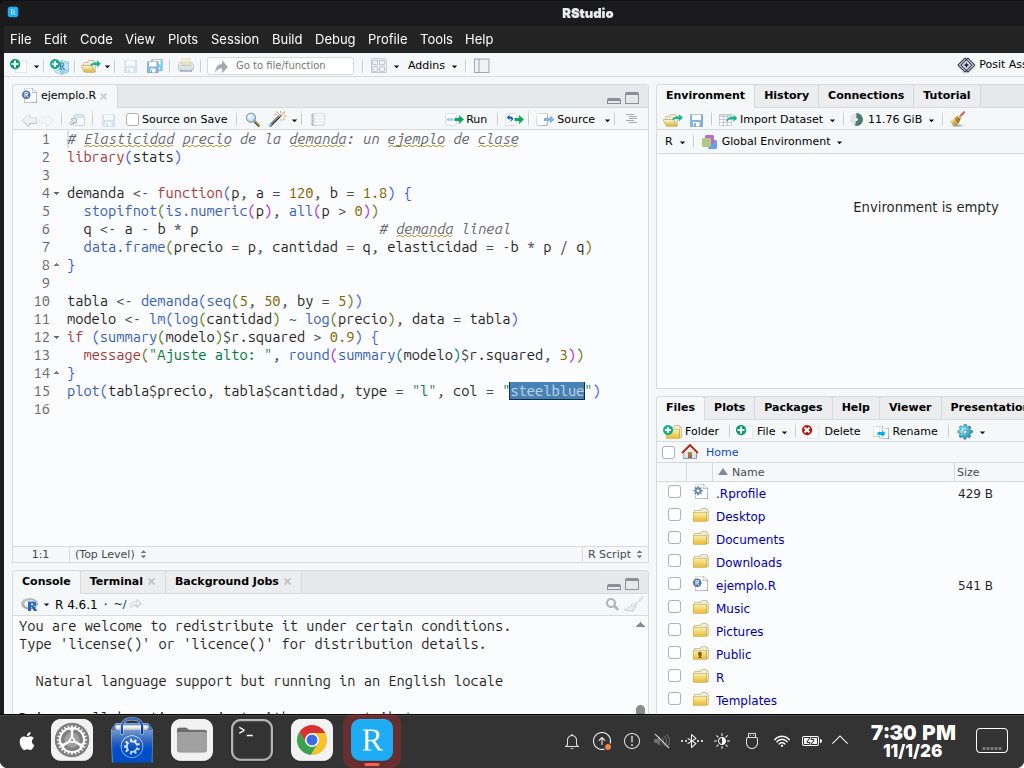
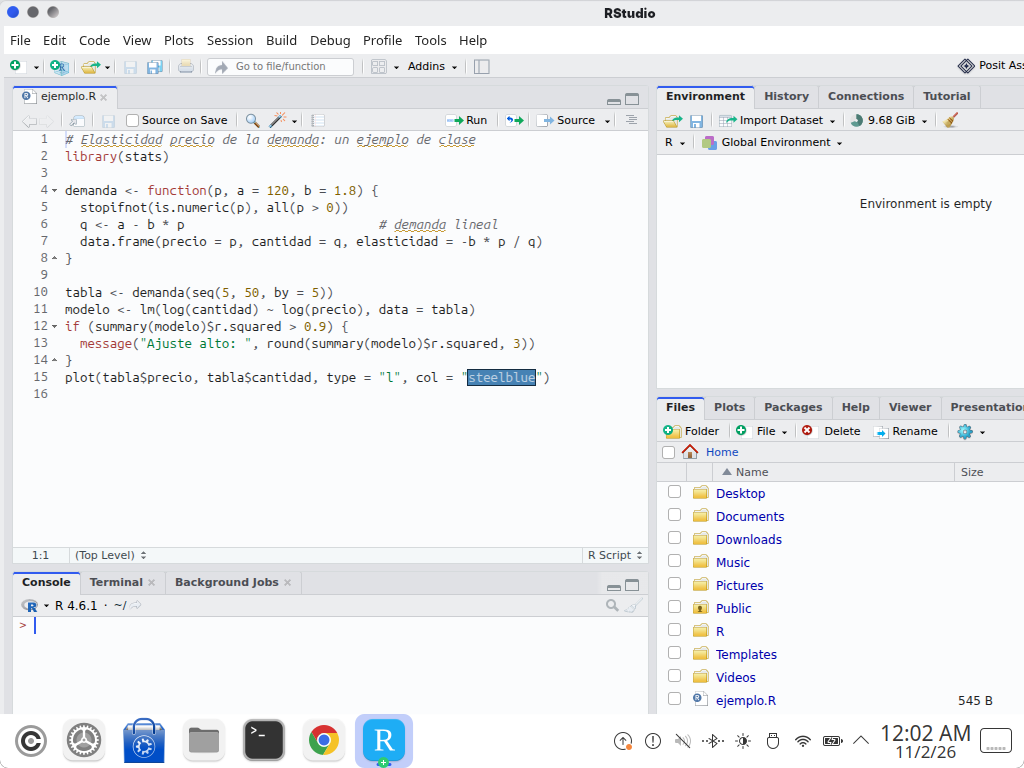
RStudio: el tema pinta también la ventana (barras, pestañas, divisores) (decisiones 5.44)
El menú «RStudio theme» (Modern, Sky) es fijo y no admite temas propios; la ventana quedaba con
sus grises, o con el gris azulado de RStudio en oscuro. RStudio carga el .rstheme en toda la
página, así que ventana() pinta las clases estables (rstheme_*, gwt-*) con los tokens: barra de
pestañas y divisores en fondo.ventana-alterno, barras y pestaña elegida en fondo.ventana, con la
raya del acento. Comprobado en la sesión de prueba en las dos variantes; capturas nuevas.

diff --git a/complementos/rstudio/construir.py b/complementos/rstudio/construir.py
@@ -3,12 +3,13 @@ registra desde `~/.config/rstudio/themes/` (o con `rstudioapi::addTheme`), y el 
 `fondo-variante` cambia `editor_theme` al pasar de una variante a otra.
 
 Formato (comprobado el 2026-11-01 en los 34 temas de RStudio 2026.05.1, `resources/app/resources/themes/`): dos
-comentarios de cabecera, `rs-theme-name` y `rs-theme-is-dark` (TRUE o FALSE; con TRUE RStudio pone oscura la interfaz
-entera: paneles, pestañas, barras y menús se derivan del fondo del editor), y reglas CSS sobre las clases de Ace
+comentarios de cabecera, `rs-theme-name` y `rs-theme-is-dark` (TRUE o FALSE; con TRUE RStudio pone oscuros los menús y
+su propio gris oscuro en la ventana), y reglas CSS sobre las clases de Ace
 (`.ace_keyword`, `.ace_string`…), las de RStudio (`.ace_foreign_line` para los bloques de código de R Markdown,
 `.ace_console_error`, `.ace_paren_color_0..6` de los paréntesis de colores, las guías de sangría de colores) y las de la
 consola y la terminal: `.terminal` y `.xtermColor0..255` / `.xtermBgColor0..255`, con las que RStudio pinta los
-colores ANSI de la consola de R y de la terminal integrada.
+colores ANSI de la consola de R y de la terminal integrada. RStudio carga el tema en toda la página, así que también pinta
+la ventana (`ventana()`, decisiones 5.44).
 
 La sintaxis sale de la misma tabla que los demás editores (`editores.sintaxis`); la consola y la terminal, de los
 dieciséis colores de Konsole (`konsole.ansi`, decisiones 4.30). Los colores 16 a 255 de xterm (el cubo 6×6×6 y la
@@ -37,6 +38,41 @@ def xterm256() -> dict[int, str]:
          for r in range(6) for g in range(6) for b in range(6)}
     c.update({232 + i: "#%02x%02x%02x" % ((8 + 10 * i,) * 3) for i in range(24)})
     return c
+
+
+def ventana(s: dict[str, str]) -> list[tuple[str, dict[str, str]]]:
+    """La ventana de RStudio (barras, pestañas, divisores), que sin esto queda con los grises de su estilo «Modern» o
+    «Sky». Ese menú de Global Options → Appearance → «RStudio theme» es fijo (no admite temas propios): lo que un
+    `.rstheme` puede pintar son las clases que RStudio deja estables para eso (`rstheme_*`) y las de GWT (`gwt-*`); las
+    demás cambian de nombre en cada versión. Con `!important`, porque RStudio pinta las mismas clases con más
+    especificidad según su estilo y la variante (`.rstudio-themes-flat.rstudio-themes-dark-grey …`)."""
+    def imp(props: dict[str, str]) -> dict[str, str]:
+        return {p: f"{v} !important" for p, v in props.items()}
+    borde = f"1px solid {s['borde.separador']}"
+    return [(sel, imp(props)) for sel, props in [
+        ("#rstudio_container, .rstudio-themes-flat .gwt-SplitLayoutPanel-HDragger,\n"
+         ".rstudio-themes-flat .gwt-SplitLayoutPanel-VDragger", {"background-color": s["fondo.ventana-alterno"]}),
+        (".rstudio-themes-flat .gwt-SplitLayoutPanel-VDragger", {"border-color": s["borde.separador"]}),
+        # pestañas de los paneles: la barra y las no elegidas en el fondo alterno; la elegida, del color de su barra de
+        # herramientas y con una raya del acento, como las pestañas de Plasma
+        (".rstudio-themes-flat .gwt-TabLayoutPanelTabs", {"background-color": s["fondo.ventana-alterno"], "border-bottom": borde}),
+        (".rstudio-themes-flat .gwt-TabLayoutPanelTab, .rstudio-themes-flat .gwt-TabLayoutPanelTab .rstheme_tabLayoutCenter",
+         {"background-color": s["fondo.ventana-alterno"], "color": s["texto.secundario"], "border-color": s["borde.separador"]}),
+        (".rstudio-themes-flat .gwt-TabLayoutPanelTab .gwt-Label", {"color": s["texto.secundario"]}),
+        (".rstudio-themes-flat .gwt-TabLayoutPanelTab-selected .rstheme_tabLayoutCenter",
+         {"background-color": s["fondo.ventana"], "box-shadow": f"inset 0 2px 0 {s['acento.base']}"}),
+        (".rstudio-themes-flat .gwt-TabLayoutPanelTab-selected .gwt-Label", {"color": s["texto.normal"]}),
+        # barras de herramientas y cabeceras de las tablas
+        (".rstudio-themes-flat .rstheme_toolbarWrapper, .rstudio-themes-flat .rstheme_secondaryToolbar,\n"
+         ".rstudio-themes-flat .gwt-TabLayoutPanelContent, .rstudio-themes-flat .gwt-TabLayoutPanel-Workbench",
+         {"background-color": s["fondo.ventana"], "border-color": s["borde.separador"]}),
+        (".rstudio-themes-flat .dataGridHeader", {"background-color": s["fondo.ventana"], "color": s["texto.secundario"],
+                                                  "border-color": s["borde.separador"]}),
+        (".rstudio-themes-flat .rstheme_minimizedWindowObject", {"background-color": s["fondo.ventana"], "border-color": s["borde.separador"]}),
+        # campos de búsqueda de las barras («Go to file/function», filtros de los paneles)
+        (".rstudio-themes-flat .rstheme_toolbarWrapper .search", {"background-color": s["fondo.vista"], "color": s["texto.normal"],
+                                                                  "border-color": s["borde.separador"]}),
+    ]]
 
 
 def reglas(tokens: dict, variante: str) -> list[tuple[str, dict[str, str]]]:
@@ -119,6 +155,7 @@ def reglas(tokens: dict, variante: str) -> list[tuple[str, dict[str, str]]]:
                f"{prefijo}.ace_editor.ace_autocomplete .ace_marker-layer .ace_line-hover",
                {"background": s["seleccion.fondo"] + "44", "border": "none"}),
               (f"{prefijo}.ace_editor.ace_autocomplete .ace_completion-highlight", {"color": s["acento.texto"]})]
+    r += ventana(s)
     # paréntesis y guías de sangría de colores: siete ANSI de Konsole
     for i, c in enumerate(ARCOIRIS):
         r.append((f".ace_paren_color_{i}, .editor_dark .ace_paren_color_{i}", {"color": k[c]}))

diff --git a/pruebas/test_proyecto.py b/pruebas/test_proyecto.py
@@ -1595,6 +1595,18 @@ def test_rstudio_temas():
             assert reglas[f".xtermBgColor{i}"]["background-color"] == k[f"color{i}"]
         assert reglas[".xtermColor196"]["color"] == "#ff0000 !important" and reglas[".xtermColor244"]["color"] == "#808080 !important"
         assert _contraste(e["texto"], e["fondo"]) >= 4.5
+        # la ventana (barras, pestañas): solo clases estables de RStudio (`rstheme_*`) y de GWT, nunca las ofuscadas
+        # (cambian en cada versión), y la pestaña elegida con la raya del acento y texto legible
+        ventana = {sel: p for sel, p in reglas.items() if ".rstudio-themes-flat" in sel or sel.startswith("#rstudio_container")}
+        assert ventana and not any(re.search(r"\.GBQ|\.[A-Z0-9]{8,}\b", sel) for sel in ventana)
+        assert all(x.endswith("!important") for p in ventana.values() for x in p.values())
+        assert reglas[".rstudio-themes-flat .rstheme_toolbarWrapper, .rstudio-themes-flat .rstheme_secondaryToolbar,\n"
+                      ".rstudio-themes-flat .gwt-TabLayoutPanelContent, .rstudio-themes-flat .gwt-TabLayoutPanel-Workbench"
+                      ]["background-color"] == s["fondo.ventana"] + " !important"
+        elegida = reglas[".rstudio-themes-flat .gwt-TabLayoutPanelTab-selected .rstheme_tabLayoutCenter"]
+        assert elegida["box-shadow"] == f"inset 0 2px 0 {s['acento.base']} !important"
+        assert _contraste(s["texto.secundario"], s["fondo.ventana-alterno"]) >= 4.5
+        assert _contraste(s["texto.normal"], s["fondo.ventana"]) >= 4.5
         propios = re.sub(r"\.xterm(Bg)?Color(1[6-9]|[2-9]\d|1\d\d|2[0-5]\d) \{[^}]*\}", "", sin_comentarios)
         for h in re.findall(r"#([0-9a-fA-F]{6})(?:[0-9a-fA-F]{2})?\b", propios):
             assert "#" + h.lower() in _hexes_permitidos(), (v, h)

diff --git a/docs/decisiones.md b/docs/decisiones.md
@@ -649,3 +649,19 @@ Una entrada por decisión, con fecha, lo decidido y el motivo. Lo pendiente va a
   archivo abierto; Octave lee los colores al arrancar; Spyder, cerrado). Comprobado de punta a punta en la sesión de
   prueba: `plasma-apply-lookandfeel` al claro cambió los tres; de vuelta al oscuro con Spyder abierto, RStudio y Octave
   cambiaron y Spyder no se tocó.
+- **5.44 (2026-11-02) RStudio: el `.rstheme` pinta también la ventana (barras, pestañas, divisores).** El autor vio que
+  Lliphi solo aparecía en «Editor theme» y no en «RStudio theme» (Global Options → Appearance). Ese menú es fijo: solo
+  ofrece los dos estilos de la interfaz que trae RStudio, «Modern» y «Sky», y no admite temas propios; con un tema claro,
+  la ventana quedaba con los grises y el azul de esos estilos, y con uno oscuro, con el gris azulado propio de RStudio
+  (`#303941`), no con los de Lliphi (5.40 suponía que RStudio derivaba la interfaz del fondo del editor: lo hace solo con
+  los paneles de contenido). Pero RStudio carga el `.rstheme` en toda la página, no solo en el editor, así que el tema
+  puede pintar la ventana. Leído el DOM de RStudio 2026.05.1 en vivo (depuración remota de Chromium en la sesión de
+  prueba), se decide: (1) **solo clases estables**: las que RStudio deja para los temas (`rstheme_toolbarWrapper`,
+  `rstheme_secondaryToolbar`, `rstheme_tabLayoutCenter`, `rstheme_minimizedWindowObject`) y las de GWT
+  (`gwt-TabLayoutPanelTab(-selected)`, `gwt-TabLayoutPanelTabs`, `gwt-SplitLayoutPanel-*Dragger`, `dataGridHeader`),
+  nunca las ofuscadas (`GBQS1KEB…`), que cambian en cada versión; la prueba lo comprueba. (2) **con `!important`**,
+  porque RStudio pinta esas clases con más especificidad según su estilo y la variante; valen con «Modern» y con «Sky»
+  (los dos son `rstudio-themes-flat`). (3) **la composición de Plasma**: barra de pestañas y divisores en
+  `fondo.ventana-alterno`, barras de herramientas, cabeceras y pestaña elegida en `fondo.ventana`, la pestaña elegida
+  con una raya de 2 px del acento arriba, como las pestañas de Breeze, y su texto en `texto.normal` (las demás en
+  `texto.secundario`, ≥ 4,5:1). Comprobado en la sesión de prueba con las dos variantes, pixel a pixel contra los tokens.

diff --git a/complementos/rstudio/README.md b/complementos/rstudio/README.md
@@ -3,10 +3,14 @@
 Dos temas para RStudio, **Lliphi Claro** y **Lliphi Oscuro**, en el formato propio de RStudio (`.rstheme`, CSS sobre el
 editor Ace): el editor de código y de R Markdown con la misma tabla de sintaxis que los demás editores de Lliphi, la
 consola de R y la terminal integrada con los dieciséis colores de Konsole, los paréntesis y las guías de sangría de
-colores, y la interfaz entera (paneles, pestañas, barras, menús) clara u oscura según la variante (`rs-theme-is-dark`).
+colores, y la ventana entera (barras, pestañas con la raya del acento, divisores) con los colores de Plasma.
+
+El menú **«RStudio theme»** de Tools → Global Options → Appearance («Modern», «Sky») es fijo y no admite temas propios:
+Lliphi se elige en **«Editor theme»**, y desde ahí pinta también la ventana, con cualquiera de los dos estilos
+(decisiones 5.44). Para eso usa solo las clases que RStudio deja estables (`rstheme_*`) y las de GWT.
 
 Es un **complemento**: vive fuera del tema global de Plasma. Arquitectura:
-[`docs/arquitectura.md`](../../docs/arquitectura.md); decisión: [`docs/decisiones.md`](../../docs/decisiones.md) §5.40.
+[`docs/arquitectura.md`](../../docs/arquitectura.md); decisión: [`docs/decisiones.md`](../../docs/decisiones.md) §5.40 y §5.44.
 
 ## Responsabilidad y formato
 

diff --git a/CHANGELOG.md b/CHANGELOG.md
@@ -54,6 +54,9 @@ Formato de Keep a Changelog 1.1.0; versiones según SemVer 2.0.0. La versión de
   oscuro en el segundo) fusionados en `octave-gui.ini`; esquemas de Spyder con interfaz automática y los dieciséis ANSI
   en la consola IPython. La vigilancia de `fondo-variante` ejecuta los programas de `variante.d/`, con los que los tres
   siguen a la variante al abrirse de nuevo.
+- **RStudio: la ventana entera en Lliphi** (decisiones 5.44): el `.rstheme` pinta también las barras, las pestañas
+  (la elegida con la raya del acento) y los divisores, que quedaban con los grises de «Modern» o «Sky» o con el gris
+  azulado de RStudio en oscuro. El menú «RStudio theme» no admite temas propios: basta con elegir Lliphi en «Editor theme».
 - **Telegram Desktop** (decisiones 5.30): complemento `telegram`, con `Lliphi Claro.tdesktop-theme` y
   `Lliphi Oscuro.tdesktop-theme`. Tienen las 586 claves de color de Telegram 7.3.3 (paleta de lib_ui en
   `fuentes/base/telegram-palette/`, GPL-3.0-or-later), todas desde los tokens: el acento en la selección, los botones y

diff --git a/sitio/generado/_cambios.md b/sitio/generado/_cambios.md
@@ -53,6 +53,9 @@ Formato de Keep a Changelog 1.1.0; versiones según SemVer 2.0.0. La versión de
   oscuro en el segundo) fusionados en `octave-gui.ini`; esquemas de Spyder con interfaz automática y los dieciséis ANSI
   en la consola IPython. La vigilancia de `fondo-variante` ejecuta los programas de `variante.d/`, con los que los tres
   siguen a la variante al abrirse de nuevo.
+- **RStudio: la ventana entera en Lliphi** (decisiones 5.44): el `.rstheme` pinta también las barras, las pestañas
+  (la elegida con la raya del acento) y los divisores, que quedaban con los grises de «Modern» o «Sky» o con el gris
+  azulado de RStudio en oscuro. El menú «RStudio theme» no admite temas propios: basta con elegir Lliphi en «Editor theme».
 - **Telegram Desktop** (decisiones 5.30): complemento `telegram`, con `Lliphi Claro.tdesktop-theme` y
   `Lliphi Oscuro.tdesktop-theme`. Tienen las 586 claves de color de Telegram 7.3.3 (paleta de lib_ui en
   `fuentes/base/telegram-palette/`, GPL-3.0-or-later), todas desde los tokens: el acento en la selección, los botones y
